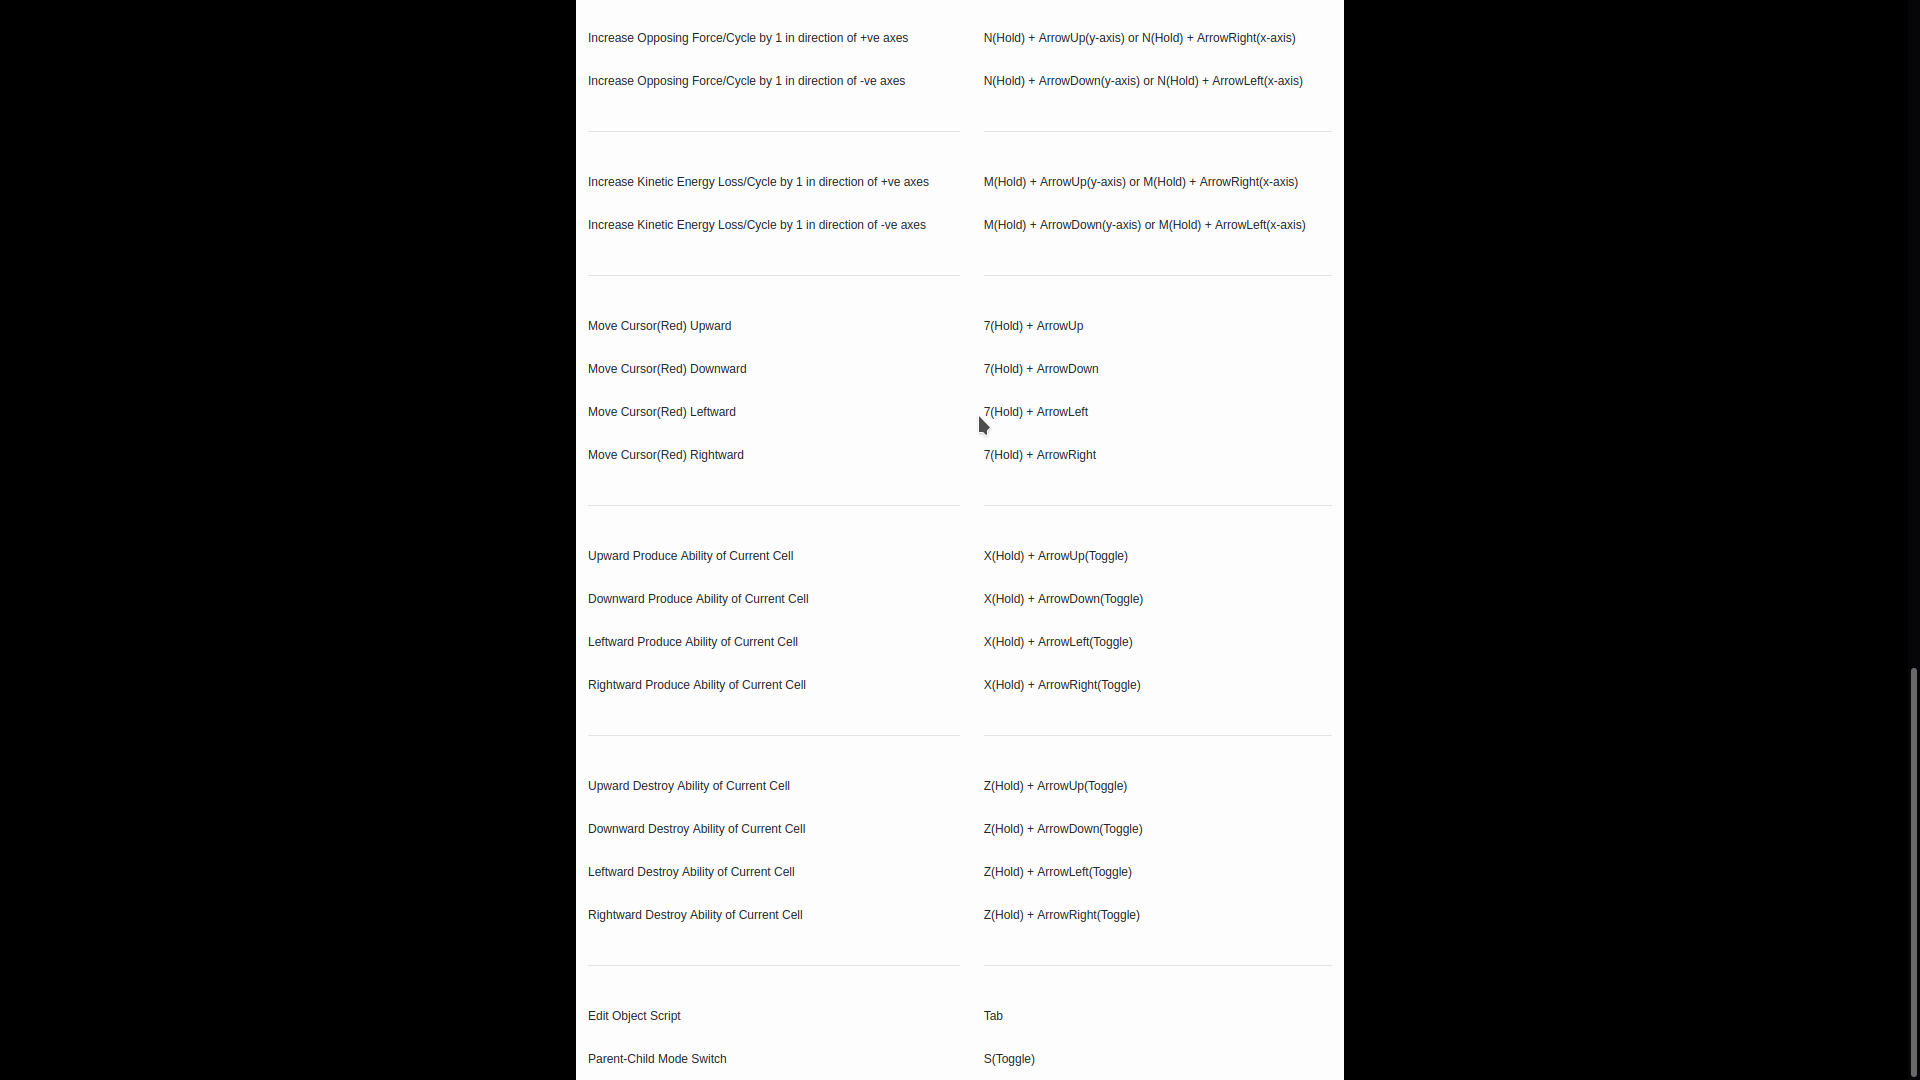
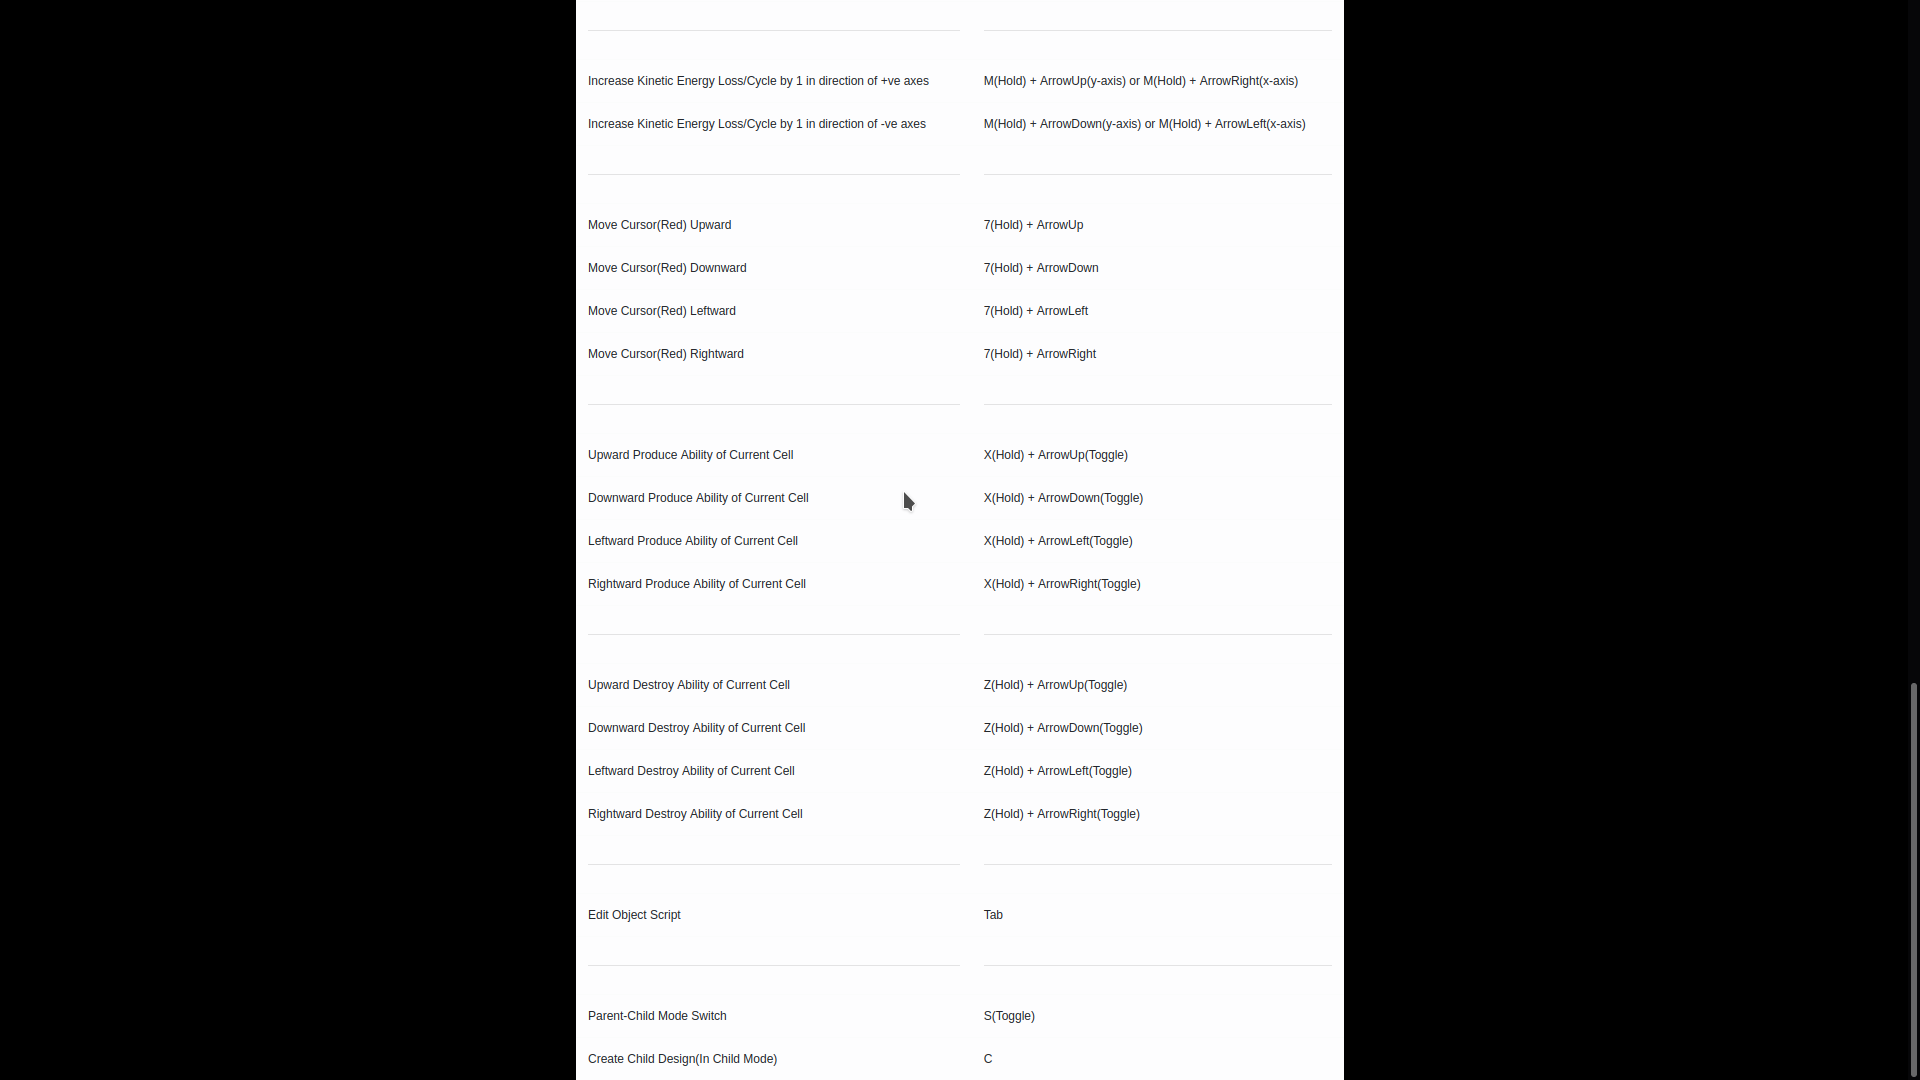
update

diff --git a/src/app.js b/src/app.js
@@ -251,9 +251,6 @@ function App() {
         objectList[currentObjectId].childObject.density += 1;
         objectList[currentObjectId].childObject.mass = objectList[currentObjectId].childObject.density * objectList[currentObjectId].childObject.cellCount
       } break
-      case "cell": {
-        if (grid[currentKey].objectId == "-1") return
-      } break
       case "force": {
         objectList[currentObjectId].childObject.forceY += 1;
       } break
@@ -277,9 +274,6 @@ function App() {
       case "density": {
         objectList[currentObjectId].childObject.density = objectList[currentObjectId].childObject.density - 1 >= 0 ? objectList[currentObjectId].childObject.density - 1 : 0;
         objectList[currentObjectId].childObject.mass = objectList[currentObjectId].childObject.density * objectList[currentObjectId].childObject.cellCount
-      } break
-      case "cell": {
-        if (grid[currentKey].childObject.objectId == "-1") return
       } break
       case "force": {
         objectList[currentObjectId].childObject.forceY -= 1;
@@ -305,9 +299,6 @@ function App() {
         objectList[currentObjectId].childObject.density = objectList[currentObjectId].childObject.density - 1 >= 0 ? objectList[currentObjectId].childObject.density - 1 : 0;
         objectList[currentObjectId].childObject.mass = objectList[currentObjectId].childObject.density * objectList[currentObjectId].childObject.cellCount
       } break
-      case "cell": {
-        if (grid[currentKey].objectId == "-1") return
-      } break
       case "force": {
         objectList[currentObjectId].childObject.forceX -= 1;
       } break
@@ -330,9 +321,6 @@ function App() {
       case "density": {
         objectList[currentObjectId].childObject.density += 1;
         objectList[currentObjectId].childObject.mass = objectList[currentObjectId].childObject.density * objectList[currentObjectId].childObject.cellCount
-      } break
-      case "cell": {
-        if (grid[currentKey].objectId == "-1") return
       } break
       case "force": {
         objectList[currentObjectId].childObject.forceX += 1;
@@ -947,6 +935,7 @@ function App() {
         } 
       } break
       case "1": {
+        if(mode == "child") break
         colorPanel.current.hidden = true
         if (runState == false) {
           runState = true
@@ -956,18 +945,21 @@ function App() {
         }
       } break
       case "2": {
+        if (mode == "child") break
         colorPanel.current.hidden = true
         cellInfoPanel.current.hidden = true
         runState = false
         sceneUpload()
       } break
       case "3": {
+        if (mode == "child") break
         colorPanel.current.hidden = true
         cellInfoPanel.current.hidden = true
         runState = false
         sceneDownload()
       } break
       case "4": {
+        if (mode == "child") break
         colorPanel.current.hidden = true
         runState = false
         createObject(grid, objectList, currentKey)
@@ -975,6 +967,7 @@ function App() {
         currentObjectId = currentKey
       } break
       case "5": {
+        if (mode == "child") break
         colorPanel.current.hidden = true
         cellInfoPanel.current.hidden = true
         runState = false
@@ -983,6 +976,7 @@ function App() {
         currentObjectId = "-1"
       } break
       case "6": {
+        if (mode == "child") break
         colorPanel.current.hidden = true
         runState = false
         var newObjectId = contractObject(grid, objectList, currentKey)
@@ -990,6 +984,7 @@ function App() {
         if (currentKey == currentObjectId) currentObjectId = newObjectId
       } break
       case "7": {
+        if (mode == "child") break
         if (currentProperty == null) {
           currentProperty = "move"
         }
@@ -1002,6 +997,7 @@ function App() {
         }
       }break
       case "9": {
+        if (mode == "child") break
         if (colorPanel.current.hidden == true) {
           colorPanel.current.hidden = false
           colorPanel.current.value = grid[currentKey].color
@@ -1011,6 +1007,7 @@ function App() {
         }
       } break
       case "d": {
+
         if (currentProperty == null) {
           currentProperty = "density"
         }
@@ -1035,15 +1032,21 @@ function App() {
       } break
       case "c": {
         if (currentProperty == null) {
-          currentProperty = "cell"
+          if(mode == "parent") {
+            currentProperty = "cell"
+          } else {
+
+          }
         }
       } break
       case "x": {
+        if (mode == "child") break
         if (currentProperty == null) {
           currentProperty = "produce"
         }
       } break
       case "z": {
+        if (mode == "child") break
         if (currentProperty == null) {
           currentProperty = "destroy"
         }
@@ -1059,6 +1062,7 @@ function App() {
         }
       } break
       case "p": {
+        if (mode == "child") break
         if (currentProperty == null) {
           currentProperty = "push"
         }
@@ -1615,10 +1619,16 @@ function App() {
             <td>Edit Object Script </td>
             <td>Tab</td>
           </tr>
+          <tr><td><hr></hr></td><td><hr></hr></td></tr>
           <tr>
             <td>Parent-Child Mode Switch </td>
             <td>S(Toggle)</td>
           </tr>
+          <tr>
+            <td>Create Child Design(In Child Mode) </td>
+            <td>C</td>
+          </tr>
+
         </tbody>
       </table>
       <textarea onKeyDown={handleTab} ref={textPanel} rows="20" style={textAreaStyle} onChange={onTextChange}></textarea>

diff --git a/src/object.js b/src/object.js
@@ -66,6 +66,14 @@ var getProperty = (key) => {
             "opposingForce": 0,
             "energyLoss": 0,
             "script": "(grid, objectList, objectId) => {\n}",
+            "root": {
+                "left": null,
+                "right": null,
+                "top": null,
+                "bottom": null,
+                "width": 1,
+                "height": 1
+            },
             "cellList": []
         },
         "cellList": [key],
